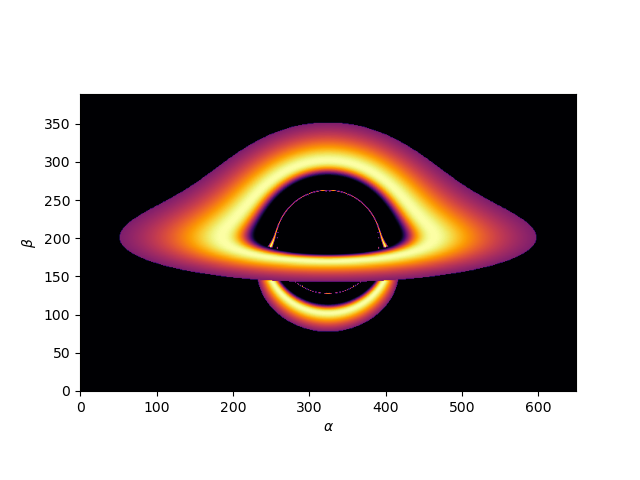
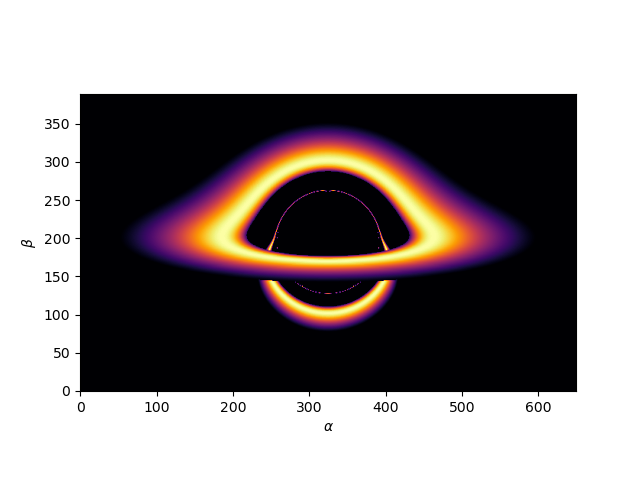
minor update

Changed region(s): [[0.1875, 0.25, 0.8438, 0.7188]]

diff --git a/main.py b/main.py
@@ -49,7 +49,7 @@ detector = image_plane.detector(D=D, iota = iota,
 ###############################################################################
 #R_min = blackhole.ISCOco 
 #R_max = 20*M
-acc_structure = thin_disk.structure(blackhole)#, R_min = 10)
+acc_structure = thin_disk.structure(blackhole, R_min = 7)
 
 
 ###############################################################################

diff --git a/accretion_structures/thin_disk.py b/accretion_structures/thin_disk.py
@@ -25,7 +25,7 @@ class structure:
 
         rr = linspace(self.in_edge, self.out_edge, 100000)
         ff = self.f(rr)
-        #ff = ff - min(ff)
+        ff = ff - min(ff)
         self.energy = interp1d(rr,ff)
 
     def f(self, r):
